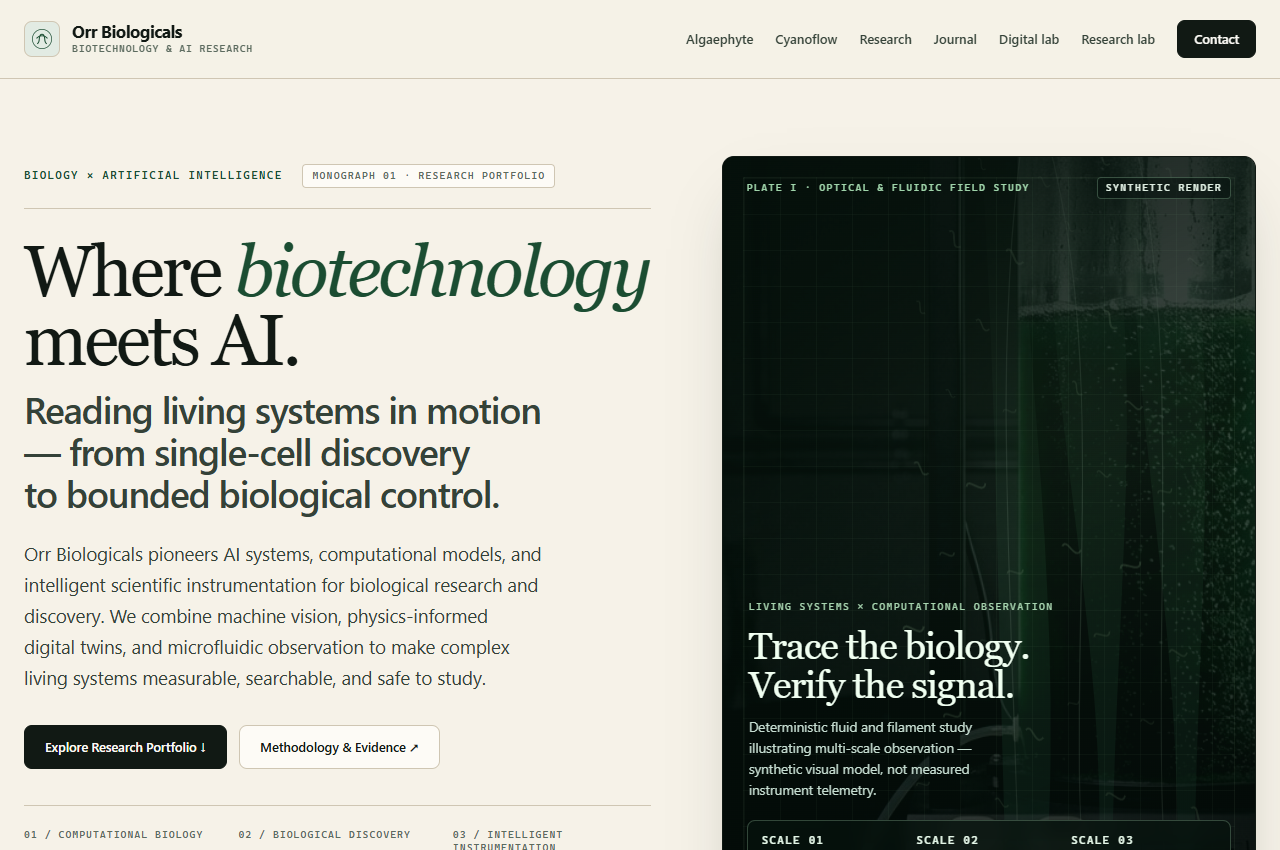
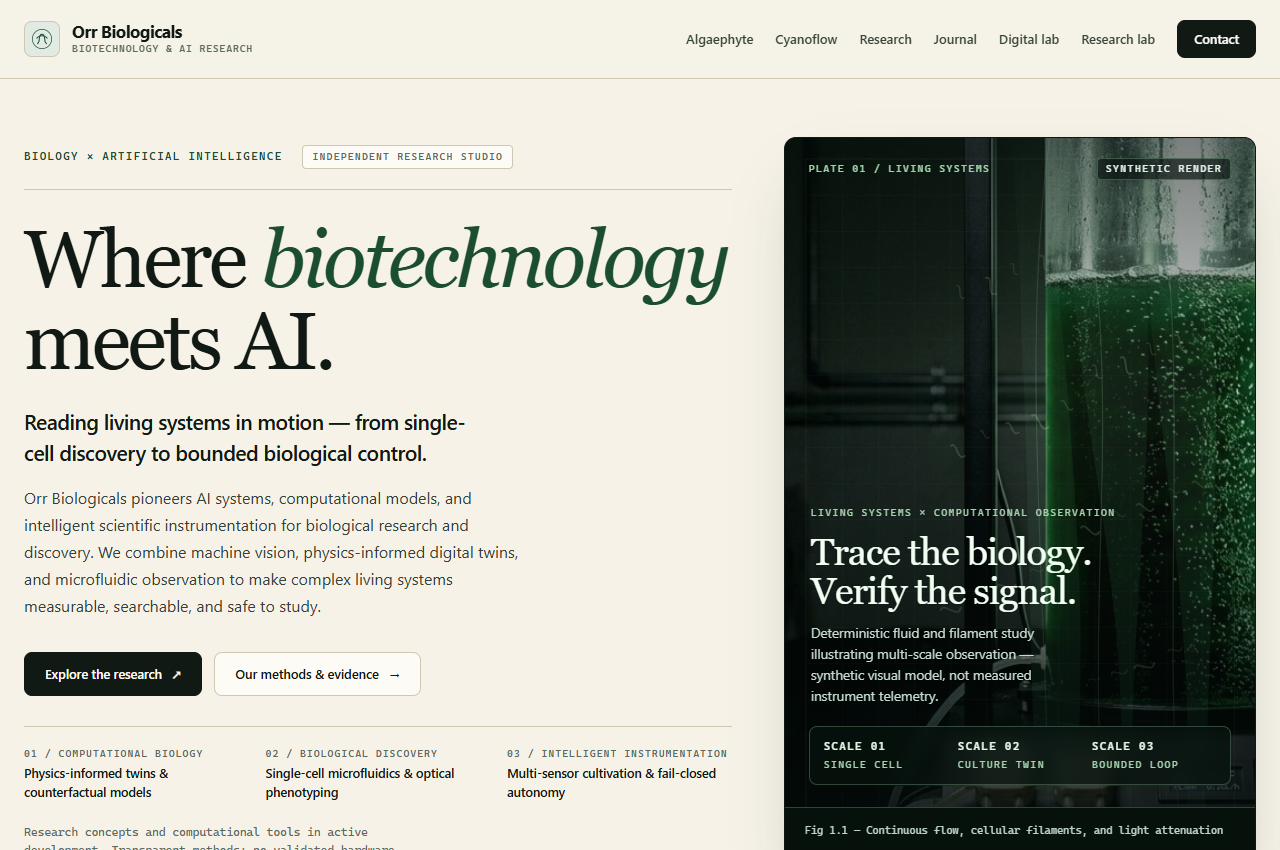
Refine homepage hierarchy and mobile presentation
Separate the headline from supporting copy and give research imagery more presence. Improve mobile controls and evidence labels while preserving scientific disclosures.

Generated with Codebuff 🤖

diff --git a/css/orr-home.css b/css/orr-home.css
@@ -6,10 +6,10 @@
 .orr-hero{
   position:relative;
   display:grid;
-  grid-template-columns:minmax(0,1.08fr) minmax(420px,.92fr);
-  gap:clamp(36px,5.5vw,76px);
+  grid-template-columns:minmax(0,1.2fr) minmax(360px,.8fr);
+  gap:clamp(32px,4vw,60px);
   align-items:stretch;
-  padding-block:clamp(44px,6vw,88px);
+  padding-block:clamp(40px,4.5vw,64px);
 }
 .orr-hero-copy{
   display:flex;
@@ -39,9 +39,9 @@
 }
 .orr-hero h1{
   font-family:var(--serif);
-  font-size:clamp(3.1rem,5.6vw,5.4rem);
+  font-size:clamp(3.4rem,6.3vw,6rem);
   font-weight:420;
-  line-height:.96;
+  line-height:1.02;
   letter-spacing:-.04em;
   margin:0 0 24px;
   color:var(--ink);
@@ -51,20 +51,17 @@
   font-weight:400;
   color:var(--leaf);
 }
-.orr-hero h1 span{
-  display:block;
-  font-family:var(--sans);
-  font-weight:620;
-  font-size:.52em;
-  line-height:1.12;
-  letter-spacing:-.035em;
-  margin-top:14px;
-  color:var(--ink-soft);
+.orr-hero-deck{
+  max-width:38ch;
+  font:500 clamp(1.15rem,1.65vw,1.45rem)/1.45 var(--sans);
+  letter-spacing:-.025em;
+  margin:0 0 18px;
+  color:var(--ink);
 }
 .orr-hero-description{
-  font-size:18.5px;
+  font-size:16px;
   color:var(--ink-soft);
-  max-width:52ch;
+  max-width:58ch;
   line-height:1.68;
   margin:0;
 }
@@ -78,8 +75,8 @@
   display:grid;
   grid-template-columns:repeat(3,minmax(0,1fr));
   gap:16px;
-  margin-top:36px;
-  padding-top:22px;
+  margin-top:30px;
+  padding-top:20px;
   border-top:1px solid var(--rule);
 }
 .hero-index-ledger div{
@@ -94,7 +91,7 @@
 }
 .hero-index-ledger dd{
   margin:0;
-  font:550 13.5px/1.4 var(--sans);
+  font:500 12.5px/1.55 var(--sans);
   color:var(--ink);
 }
 .orr-hero-footnote{
@@ -141,7 +138,7 @@
   object-fit:cover;
   object-position:60% center;
   z-index:-4;
-  filter:saturate(.78) contrast(1.1) brightness(.54);
+  filter:saturate(.82) contrast(1.06) brightness(.9);
 }
 .orr-hero-photo>canvas{
   position:absolute;
@@ -150,20 +147,20 @@
   height:100%;
   z-index:-2;
   mix-blend-mode:screen;
-  opacity:.85;
+  opacity:.55;
   pointer-events:none;
 }
 .hero-photo-wash{
   position:absolute;
   inset:0;
   z-index:-1;
-  background:linear-gradient(155deg,rgba(5,16,11,.92) 0%,rgba(6,22,15,.56) 48%,rgba(4,12,9,.82) 100%);
+  background:linear-gradient(180deg,rgba(5,16,11,.48) 0%,rgba(6,22,15,.08) 38%,rgba(4,12,9,.92) 100%);
 }
 .hero-photo-grid{
   position:absolute;
   inset:20px;
   z-index:-1;
-  opacity:.28;
+  opacity:.16;
   border:1px solid rgba(171,235,187,.22);
   background-image:linear-gradient(rgba(171,235,187,.12) 1px,transparent 1px),linear-gradient(90deg,rgba(171,235,187,.12) 1px,transparent 1px);
   background-size:36px 36px;
@@ -363,7 +360,7 @@
 .platform-media{
   display:block;
   position:relative;
-  height:210px;
+  height:clamp(220px,23vw,300px);
   overflow:hidden;
   border-bottom:1px solid var(--rule);
   background:var(--dvoid);
@@ -609,7 +606,16 @@
   padding-bottom:10px;
   border-bottom:1px solid var(--rule);
   display:flex;
-  justify-content:space-between;
+  flex-direction:column;
+  align-items:flex-start;
+  gap:10px;
+}
+.horizon-col h4>span:last-child{
+  padding:4px 7px;
+  border:1px solid currentColor;
+  border-radius:3px;
+  font-size:9px;
+  letter-spacing:.06em;
 }
 .horizon-col.future h4{
   color:var(--copper);
@@ -895,7 +901,10 @@
 /* Responsive Breakpoints */
 @media(max-width:1024px){
   .orr-hero{grid-template-columns:1fr;gap:36px}
+  .orr-hero h1{max-width:15ch}
+  .orr-hero-copy{padding:0}
   .orr-hero-photo{min-height:440px}
+  .orr-hero-photo>img{object-position:center 45%}
   .thesis-header{grid-template-columns:1fr;gap:16px}
   .thesis-columns{grid-template-columns:1fr}
   .thesis-col{padding:24px 0}
@@ -913,11 +922,27 @@
 }
 @media(max-width:640px){
   .orr-hero{padding-block:32px 48px;gap:28px}
-  .orr-hero-description{font-size:17px}
-  .orr-hero h1{font-size:2.65rem}
-  .hero-index-ledger{grid-template-columns:1fr;gap:12px}
-  .orr-hero-photo{min-height:390px}
-  .hero-photo-readout{grid-template-columns:1fr;margin:0 16px 16px}
+  .hero-meta-bar{gap:10px;margin-bottom:24px;padding-bottom:16px}
+  .hero-meta-bar .orr-eyebrow{font-size:9px;letter-spacing:.09em}
+  .hero-meta-tag{font-size:9px}
+  .orr-hero-description{font-size:15px}
+  .orr-hero h1{font-size:clamp(2.5rem,10.8vw,4rem);margin-bottom:20px}
+  .orr-hero-deck{font-size:18px}
+  .orr-hero-actions{display:grid;gap:10px;margin-top:24px}
+  .orr-hero-actions>a{justify-content:space-between;min-height:48px;padding-inline:16px}
+  .hero-index-ledger{grid-template-columns:1fr;gap:0;margin-top:24px;padding-top:0}
+  .hero-index-ledger>div{grid-template-columns:1fr 1.1fr;gap:16px;padding:12px 0;border-bottom:1px solid var(--rule)}
+  .hero-index-ledger dt{font-size:9px;letter-spacing:.05em}
+  .hero-index-ledger dd{font-size:12px}
+  .orr-hero-footnote{font-size:10px}
+  .orr-hero-photo{min-height:440px}
+  .hero-plate-top{padding:18px 16px 0;font-size:8px;letter-spacing:.06em}
+  .hero-photo-copy{padding:28px 20px 20px}
+  .hero-photo-readout{grid-template-columns:repeat(3,minmax(0,1fr));margin:0 16px 16px;padding:12px 10px;font-size:8px;letter-spacing:.03em;gap:8px}
+  .hero-photo-readout b{font-size:9px}
+  .orr-hero-visual figcaption{padding:12px 16px;font-size:9px}
+  .spec-head{align-items:flex-start;flex-wrap:wrap;gap:8px}
+  .spec-head .orr-eyebrow{margin-bottom:0}
   .orr-product-grid{grid-template-columns:1fr}
   .platform-body{padding:22px}
   .reading-paths{grid-template-columns:1fr}

diff --git a/index.html b/index.html
@@ -66,13 +66,14 @@
   <div>
     <div class="hero-meta-bar">
       <p class="orr-eyebrow">BIOLOGY × ARTIFICIAL INTELLIGENCE</p>
-      <span class="hero-meta-tag">MONOGRAPH 01 · RESEARCH PORTFOLIO</span>
+      <span class="hero-meta-tag">Independent research studio</span>
     </div>
-    <h1>Where <em>biotechnology</em> meets AI.<span>Reading living systems in motion — from single-cell discovery to bounded biological control.</span></h1>
+    <h1>Where <em>biotechnology</em> meets AI.</h1>
+    <p class="orr-hero-deck">Reading living systems in motion — from single-cell discovery to bounded biological control.</p>
     <p class="orr-hero-description">Orr Biologicals pioneers AI systems, computational models, and intelligent scientific instrumentation for biological research and discovery. We combine machine vision, physics-informed digital twins, and microfluidic observation to make complex living systems measurable, searchable, and safe to study.</p>
     <div class="orr-hero-actions">
-      <a class="btn-white" href="#products">Explore Research Portfolio ↓</a>
-      <a class="btn-ghost" href="/research/">Methodology &amp; Evidence ↗</a>
+      <a class="btn-white" href="#products">Explore the research <span aria-hidden="true">↗</span></a>
+      <a class="btn-ghost" href="/research/">Our methods &amp; evidence <span aria-hidden="true">→</span></a>
     </div>
   </div>
   <div>
@@ -89,7 +90,7 @@
   <canvas id="cultureCascade" aria-hidden="true"></canvas>
   <div class="hero-photo-wash"></div>
   <div class="hero-photo-grid"></div>
-  <div class="hero-plate-top"><span>PLATE I · OPTICAL &amp; FLUIDIC FIELD STUDY</span><span>SYNTHETIC RENDER</span></div>
+  <div class="hero-plate-top"><span>PLATE 01 / LIVING SYSTEMS</span><span>SYNTHETIC RENDER</span></div>
   <div class="hero-photo-copy">
     <span class="hero-photo-kicker">LIVING SYSTEMS × COMPUTATIONAL OBSERVATION</span>
     <strong>Trace the biology.<br>Verify the signal.</strong>

diff --git a/sections/home-body.html b/sections/home-body.html
@@ -14,13 +14,14 @@
   <div>
     <div class="hero-meta-bar">
       <p class="orr-eyebrow">BIOLOGY × ARTIFICIAL INTELLIGENCE</p>
-      <span class="hero-meta-tag">MONOGRAPH 01 · RESEARCH PORTFOLIO</span>
+      <span class="hero-meta-tag">Independent research studio</span>
     </div>
-    <h1>Where <em>biotechnology</em> meets AI.<span>Reading living systems in motion — from single-cell discovery to bounded biological control.</span></h1>
+    <h1>Where <em>biotechnology</em> meets AI.</h1>
+    <p class="orr-hero-deck">Reading living systems in motion — from single-cell discovery to bounded biological control.</p>
     <p class="orr-hero-description">Orr Biologicals pioneers AI systems, computational models, and intelligent scientific instrumentation for biological research and discovery. We combine machine vision, physics-informed digital twins, and microfluidic observation to make complex living systems measurable, searchable, and safe to study.</p>
     <div class="orr-hero-actions">
-      <a class="btn-white" href="#products">Explore Research Portfolio ↓</a>
-      <a class="btn-ghost" href="/research/">Methodology &amp; Evidence ↗</a>
+      <a class="btn-white" href="#products">Explore the research <span aria-hidden="true">↗</span></a>
+      <a class="btn-ghost" href="/research/">Our methods &amp; evidence <span aria-hidden="true">→</span></a>
     </div>
   </div>
   <div>
@@ -37,7 +38,7 @@
   <canvas id="cultureCascade" aria-hidden="true"></canvas>
   <div class="hero-photo-wash"></div>
   <div class="hero-photo-grid"></div>
-  <div class="hero-plate-top"><span>PLATE I · OPTICAL &amp; FLUIDIC FIELD STUDY</span><span>SYNTHETIC RENDER</span></div>
+  <div class="hero-plate-top"><span>PLATE 01 / LIVING SYSTEMS</span><span>SYNTHETIC RENDER</span></div>
   <div class="hero-photo-copy">
     <span class="hero-photo-kicker">LIVING SYSTEMS × COMPUTATIONAL OBSERVATION</span>
     <strong>Trace the biology.<br>Verify the signal.</strong>

diff --git a/tools/test_seo.py b/tools/test_seo.py
@@ -116,9 +116,8 @@ class SEOTests(unittest.TestCase):
         from build_home import render
         self.assertEqual((ROOT / 'index.html').read_text(encoding='utf-8'), render())
         h1 = Page(render()).headings['h1'][0].lower()
-        self.assertIn('biotechnology', h1)
-        self.assertIn('living', h1)
-        self.assertIn('system', h1)
+        self.assertEqual(h1, 'where biotechnology meets ai.')
+        self.assertIn('<p class="orr-hero-deck">Reading living systems in motion', render())
         for name in ('build.ps1', 'rebuild.ps1'):
             text = (ROOT / name).read_text(encoding='utf-8-sig')
             self.assertNotIn('SliceLines', text)
